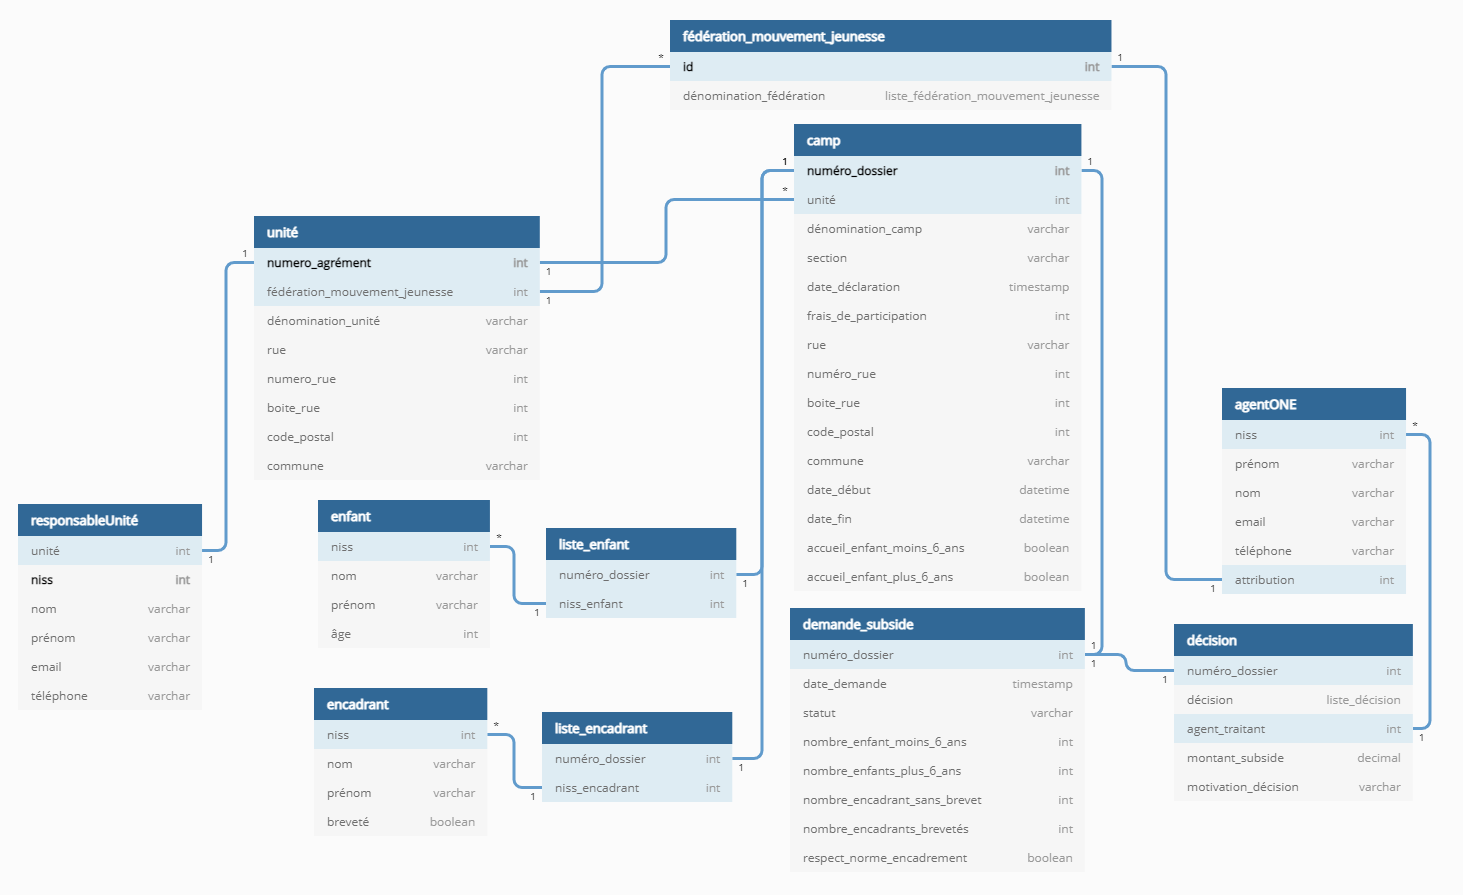
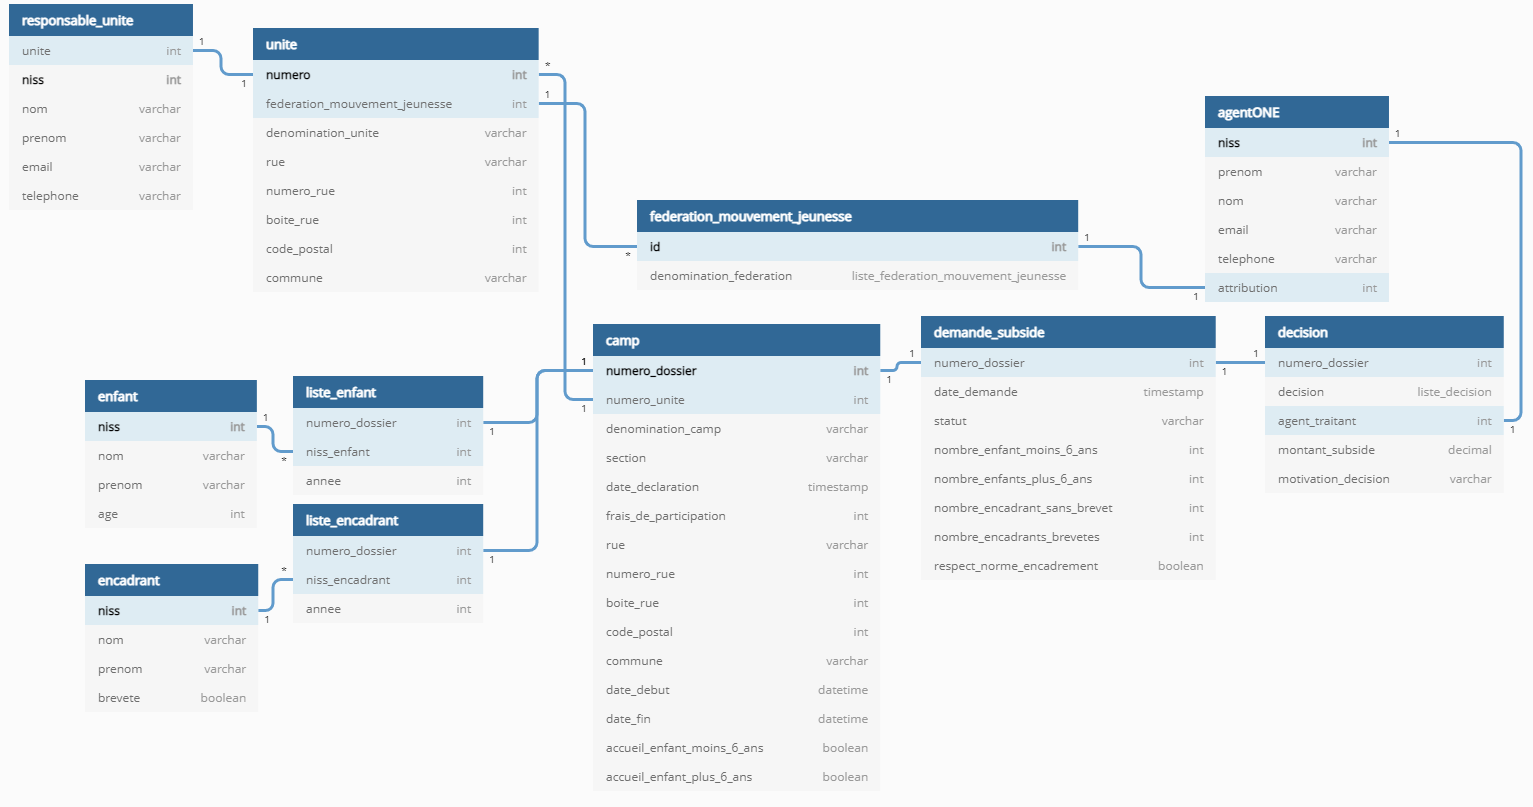
création de la table adresse + foreign key

diff --git a/Codes/code_dbml.tex b/Codes/code_dbml.tex
@@ -1,7 +1,11 @@
-%DBML 
 
-% Enum pour les 'federation_mouvement_jeunesse' table below
-Enum "liste_fédération_mouvement_jeunesse" {
+Project "stic_b505 - projet" {
+  database_type: 'MySQL'
+  Note: 'projet de gestion de base de données, subv camp ONE'
+}
+
+// Enum pour les 'federation_mouvement_jeunesse' table below
+Enum "liste_federation_mouvement_jeunesse" {
   "Les Scouts"
   "Les Guides"
   "Les Patros"
@@ -9,135 +13,139 @@ Enum "liste_fédération_mouvement_jeunesse" {
   "Les Faucons Rouges"
 }
 
-%Enum pour les décisions concernant les demandes de subsides
-Enum "liste_décision"{
-  "Accordé"
-  "Partiellement accordé"
-  "Refusé"
+//Enum pour les decisions concernant les demandes de subsides
+Enum "liste_decision"{
+  "Accorde"
+  "Refuse"
 }
 
-% Creating tables
-Table "fédération_mouvement_jeunesse" {
+// Creating tables
+Table "federation_mouvement_jeunesse" {
   id int [pk, unique, not null]
-  "dénomination_fédération" "liste_fédération_mouvement_jeunesse"
+  "denomination_federation" "liste_federation_mouvement_jeunesse"
+  adresse int [ref: - a.id_adresse]
 }
 
 
 
-Table "unité" as U {
-  "numero" int [pk, increment, not null] % auto-increment
-  "fédération_mouvement_jeunesse" int
-  "dénomination_unité" varchar
-  rue varchar
-  numero_rue int
-  boite_rue int
-  code_postal int
-  commune varchar
+Table "unite" as U {
+  "numero" int [pk, increment, not null] // auto-increment
+  "federation_mouvement_jeunesse" int
+  "denomination_unite" varchar
+  adresse int [ref: - a.id_adresse]
 }
 
-Table "responsableUnité" {
-  "unité" int
+Table "responsable_unite" {
+  "unite" int
   niss int [pk, not null]
   nom varchar
-  "prénom" varchar
+  "prenom" varchar
+  adresse int [ref: - a.id_adresse]
   email varchar
-  "téléphone" varchar
+  "telephone" varchar
 }
 
 Table camp as c {
-  "numéro_dossier" int [pk, not null]
-  "numéro_unité" int 
-  "dénomination_camp" varchar
+  "numero_dossier" int [pk, not null]
+  "numero_unite" int 
+  "denomination_camp" varchar
   section varchar
-  "date_déclaration" timestamp
+  "date_declaration" timestamp
   frais_de_participation int
-  rue varchar
-  "numéro_rue" int
-  boite_rue int
-  code_postal int
-  commune varchar
-  "date_début" datetime
+  adresse int [ref: - a.id_adresse]
+  "date_debut" datetime
   date_fin datetime
   accueil_enfant_moins_6_ans boolean
   accueil_enfant_plus_6_ans boolean
-  %"accueil_enfant_besoin_spécifique" boolean
+  //"accueil_enfant_besoin_specifique" boolean
 }
+
+Table adresse as a {
+  id_adresse int [pk, not null, increment]
+  rue varchar
+  "numero_rue" int
+  //boite_rue int
+  code_postal int
+  commune varchar
+  }
+
 
 Table enfant {
   niss int [pk,  not null]
   nom varchar
-  "prénom" varchar
-  "age" int
+  "prenom" varchar
+  "date_naissance" datetime
 }
 
 Table encadrant {
   niss int [pk, not null]
   nom varchar
-  "prénom" varchar
-  "breveté" boolean
+  "prenom" varchar
+  "brevete" boolean
+  "experience" boolean
 }
 
 
-Table liste_enfant {
-  "numéro_dossier" int
+Table enfant_camp {
+  "numero_dossier" int
   "niss_enfant" int
-   "année" int
 }
 
-Table liste_encadrant {
-  "numéro_dossier" int
+Table encadrant_camp {
+  "numero_dossier" int
   "niss_encadrant" int
-  "année" int
 }
 
 
 Table demande_subside {
-  "numéro_dossier" int 
+  "numero_dossier" int 
   date_demande timestamp
   statut varchar
-  nombre_enfant_moins_6_ans int
-  nombre_enfants_plus_6_ans int
-  nombre_encadrant_sans_brevet int
-  "nombre_encadrants_brevetés" int
-  respect_norme_encadrement boolean
+ // nombre_enfant_moins_6_ans int
+ // nombre_enfants_plus_6_ans int
+ // nombre_encadrant_sans_brevet int
+ //"nombre_encadrants_brevetes" int
+ // respect_norme_encadrement boolean
 }
 
 
 
-Table "décision" {
-  "numéro_dossier" int
-  "décision" "liste_décision"
+Table "decision" {
+  "numero_dossier" int
+  "statut" "liste_decision"
   agent_traitant int
   montant_subside decimal
-  "motivation_décision" varchar
+  "motivation_decision" varchar
 }
 
 
 Table agentONE {
   niss int [pk, not null]
-  "prénom" varchar
+  "prenom" varchar
   nom varchar
   email varchar
-  "téléphone" varchar
+  "telephone" varchar
   attribution int
   
 }
 
 
-Ref: "unité"."numero" < "responsableUnité"."unité"
-Ref: "unité"."numero" < "camp"."numéro_unité"
+Ref: "unite"."numero" - "responsable_unite"."unite"
+Ref: "unite"."numero" > "camp"."numero_unite"
 
-Ref: "camp"."numéro_dossier" < "demande_subside"."numéro_dossier"
+Ref: "camp"."numero_dossier" - "demande_subside"."numero_dossier"
 
-Ref: "enfant"."niss" < "liste_enfant"."niss_enfant"
-Ref: "encadrant"."niss" < "liste_encadrant"."niss_encadrant"
+Ref: "enfant"."niss" < "enfant_camp"."niss_enfant"
+Ref: "encadrant"."niss" < "encadrant_camp"."niss_encadrant"
 
-Ref: "camp"."numéro_dossier" < "liste_enfant"."numéro_dossier"
-Ref: "camp"."numéro_dossier" < "liste_encadrant"."numéro_dossier"
+Ref: "camp"."numero_dossier" - "enfant_camp"."numero_dossier"
+Ref: "camp"."numero_dossier" - "encadrant_camp"."numero_dossier"
 
-Ref: "fédération_mouvement_jeunesse"."id" < "agentONE"."attribution"
-Ref: "fédération_mouvement_jeunesse"."id" < "unité"."fédération_mouvement_jeunesse"
+Ref: "federation_mouvement_jeunesse"."id" - "agentONE"."attribution"
+Ref: "federation_mouvement_jeunesse"."id" > "unite"."federation_mouvement_jeunesse"
 
-Ref: "demande_subside"."numéro_dossier" < "décision"."numéro_dossier"
+Ref: "demande_subside"."numero_dossier" - "decision"."numero_dossier"
 
-Ref: "agentONE"."niss" < "décision"."agent_traitant"
+Ref: "agentONE"."niss" - "decision"."agent_traitant"
+
+//Ref: "demande_subside"."respect_norme_encadrement" < "enfant"."age"

diff --git a/Codes/code_creation.tex b/Codes/code_creation.tex
@@ -1,24 +1,22 @@
 CREATE TABLE `federation_mouvement_jeunesse` (
   `id` int UNIQUE PRIMARY KEY NOT NULL,
-  `denomination_federation` ENUM ('Les Scouts', 'Les Guides', 'Les Patros', 'Les Scouts et Guides pluralistes', 'Les Faucons Rouges')
+  `denomination_federation` ENUM ('Les Scouts', 'Les Guides', 'Les Patros', 'Les Scouts et Guides pluralistes', 'Les Faucons Rouges'),
+  `adresse` int
 );
 
 CREATE TABLE `unite` (
   `numero` int PRIMARY KEY NOT NULL AUTO_INCREMENT,
   `federation_mouvement_jeunesse` int,
   `denomination_unite` varchar(255),
-  `rue` varchar(255),
-  `numero_rue` int,
-  `boite_rue` int,
-  `code_postal` int,
-  `commune` varchar(255)
+  `adresse` int
 );
 
-CREATE TABLE `responsableUnite` (
+CREATE TABLE `responsable_unite` (
   `unite` int,
   `niss` int PRIMARY KEY NOT NULL,
   `nom` varchar(255),
   `prenom` varchar(255),
+  `adresse` int,
   `email` varchar(255),
   `telephone` varchar(255)
 );
@@ -30,57 +28,55 @@ CREATE TABLE `camp` (
   `section` varchar(255),
   `date_declaration` timestamp,
   `frais_de_participation` int,
-  `rue` varchar(255),
-  `numero_rue` int,
-  `boite_rue` int,
-  `code_postal` int,
-  `commune` varchar(255),
+  `adresse` int,
   `date_debut` datetime,
   `date_fin` datetime,
   `accueil_enfant_moins_6_ans` boolean,
   `accueil_enfant_plus_6_ans` boolean
 );
 
+CREATE TABLE `adresse` (
+  `id_adresse` int PRIMARY KEY NOT NULL AUTO_INCREMENT,
+  `rue` varchar(255) NOT NULL,
+  `numero_rue` int NOT NULL,
+  `code_postal` int NOT NULL,
+  `commune` varchar(255) NOT NULL
+);
+
 CREATE TABLE `enfant` (
   `niss` int PRIMARY KEY NOT NULL,
   `nom` varchar(255),
   `prenom` varchar(255),
-  `age` int
+  `date_naissance` datetime
 );
 
 CREATE TABLE `encadrant` (
   `niss` int PRIMARY KEY NOT NULL,
   `nom` varchar(255),
   `prenom` varchar(255),
-  `brevete` boolean
+  `brevete` boolean,
+  `experience` boolean
 );
 
-CREATE TABLE `liste_enfant` (
+CREATE TABLE `enfant_camp` (
   `numero_dossier` int,
-  `niss_enfant` int,
-  `annee` int
+  `niss_enfant` int
 );
 
-CREATE TABLE `liste_encadrant` (
+CREATE TABLE `encadrant_camp` (
   `numero_dossier` int,
-  `niss_encadrant` int,
-  `annee` int
+  `niss_encadrant` int
 );
 
 CREATE TABLE `demande_subside` (
   `numero_dossier` int,
   `date_demande` timestamp,
-  `statut` varchar(255),
-  `nombre_enfant_moins_6_ans` int,
-  `nombre_enfants_plus_6_ans` int,
-  `nombre_encadrant_sans_brevet` int,
-  `nombre_encadrants_brevetes` int,
-  `respect_norme_encadrement` boolean
+  `statut` varchar(255)
 );
 
 CREATE TABLE `decision` (
   `numero_dossier` int,
-  `decision` ENUM ('Accorde', 'Partiellement accorde', 'Refuse'),
+  `statut` ENUM ('Accorde', 'Refuse'),
   `agent_traitant` int,
   `montant_subside` decimal,
   `motivation_decision` varchar(255)
@@ -94,5 +90,3 @@ CREATE TABLE `agentONE` (
   `telephone` varchar(255),
   `attribution` int
 );
-
-

diff --git a/Codes/code_key.tex b/Codes/code_key.tex
@@ -1,20 +1,27 @@
-ALTER TABLE `responsableUnite` ADD FOREIGN KEY (`unite`) REFERENCES `unite` (`numero`);
+ALTER TABLE `federation_mouvement_jeunesse` ADD FOREIGN KEY (`adresse`) REFERENCES `adresse` (`id_adresse`);
 
-ALTER TABLE `camp` ADD FOREIGN KEY (`numero_unite`) REFERENCES `unite` (`numero`);
+ALTER TABLE `unite` ADD FOREIGN KEY (`adresse`) REFERENCES `adresse` (`id_adresse`);
+
+ALTER TABLE `responsable_unite` ADD FOREIGN KEY (`adresse`) REFERENCES `adresse` (`id_adresse`);
+
+ALTER TABLE `camp` ADD FOREIGN KEY (`adresse`) REFERENCES `adresse` (`id_adresse`);
+ALTER TABLE `responsable_unite` ADD FOREIGN KEY (`unite`) REFERENCES `unite` (`numero`);
+
+ALTER TABLE `unite` ADD FOREIGN KEY (`numero`) REFERENCES `camp` (`numero_unite`);
 
 ALTER TABLE `demande_subside` ADD FOREIGN KEY (`numero_dossier`) REFERENCES `camp` (`numero_dossier`);
 
-ALTER TABLE `liste_enfant` ADD FOREIGN KEY (`niss_enfant`) REFERENCES `enfant` (`niss`);
+ALTER TABLE `enfant_camp` ADD FOREIGN KEY (`niss_enfant`) REFERENCES `enfant` (`niss`);
 
-ALTER TABLE `liste_encadrant` ADD FOREIGN KEY (`niss_encadrant`) REFERENCES `encadrant` (`niss`);
+ALTER TABLE `encadrant_camp` ADD FOREIGN KEY (`niss_encadrant`) REFERENCES `encadrant` (`niss`);
 
-ALTER TABLE `liste_enfant` ADD FOREIGN KEY (`numero_dossier`) REFERENCES `camp` (`numero_dossier`);
+ALTER TABLE `enfant_camp` ADD FOREIGN KEY (`numero_dossier`) REFERENCES `camp` (`numero_dossier`);
 
-ALTER TABLE `liste_encadrant` ADD FOREIGN KEY (`numero_dossier`) REFERENCES `camp` (`numero_dossier`);
+ALTER TABLE `encadrant_camp` ADD FOREIGN KEY (`numero_dossier`) REFERENCES `camp` (`numero_dossier`);
 
 ALTER TABLE `agentONE` ADD FOREIGN KEY (`attribution`) REFERENCES `federation_mouvement_jeunesse` (`id`);
 
-ALTER TABLE `unite` ADD FOREIGN KEY (`federation_mouvement_jeunesse`) REFERENCES `federation_mouvement_jeunesse` (`id`);
+ALTER TABLE `federation_mouvement_jeunesse` ADD FOREIGN KEY (`id`) REFERENCES `unite` (`federation_mouvement_jeunesse`);
 
 ALTER TABLE `decision` ADD FOREIGN KEY (`numero_dossier`) REFERENCES `demande_subside` (`numero_dossier`);
 

diff --git a/appendix.tex b/appendix.tex
@@ -1,6 +1,9 @@
 \section{Schéma entité relation}
 
 \section{Schéma logique relationnel}
+\subsection{Code DBML}
+\inputminted[breaklines =true, autogobble, linenos, frame = single]{sql}{Codes/code_dbml.tex}
+
 
 \section{PhpMyAdmin}
 \subsubsection{Création des foreign keys}
